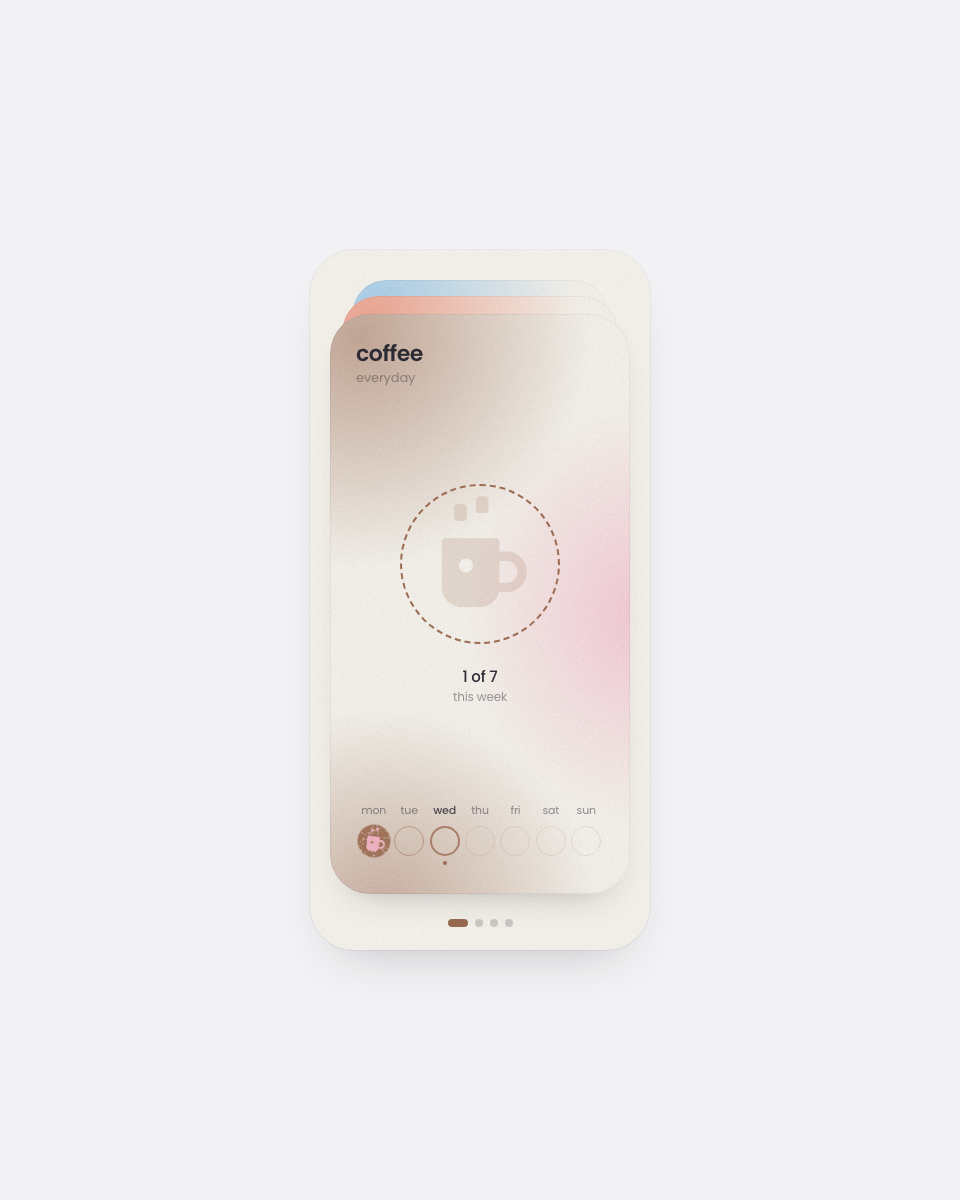
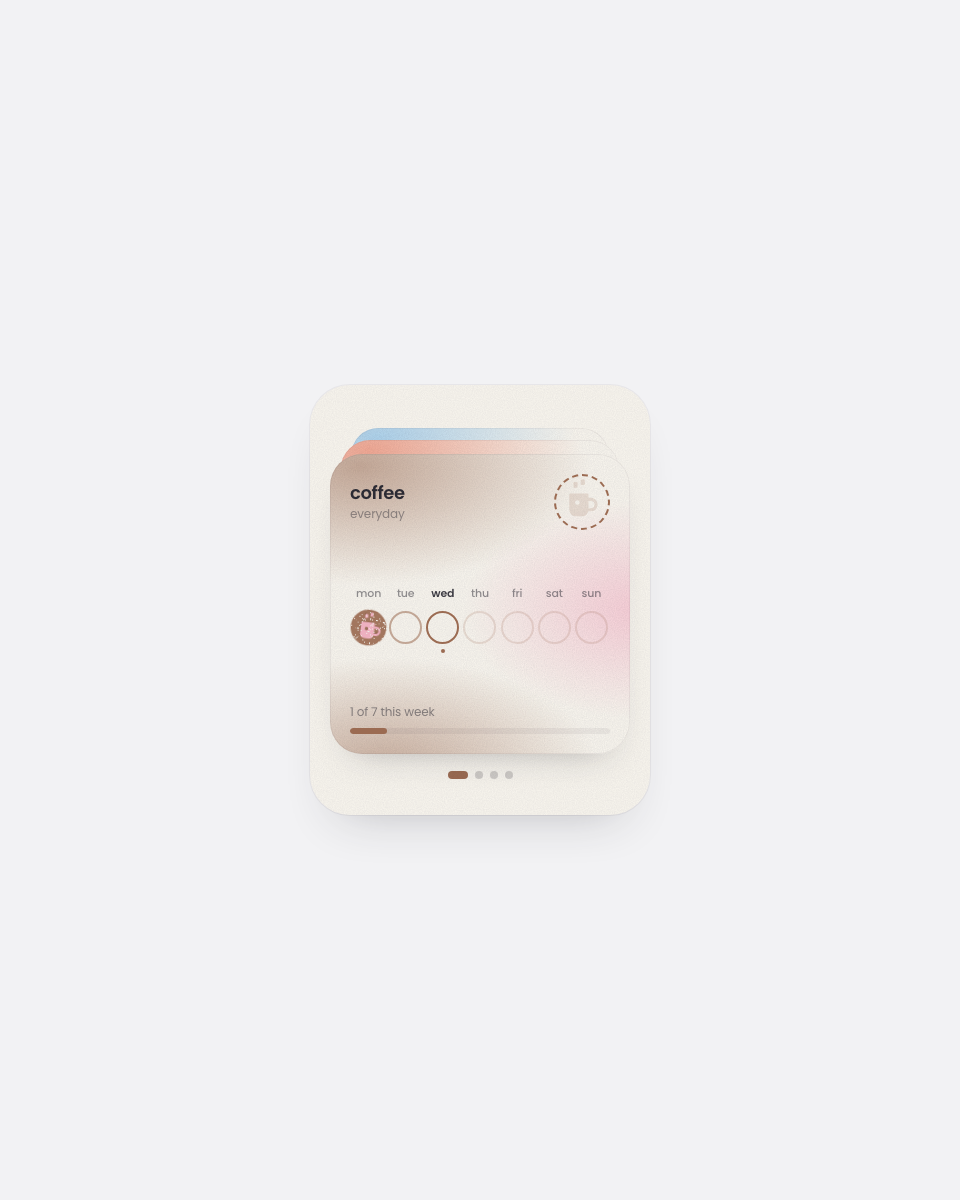
fix: Stamp Tracker — smaller cards with the week row as the hero

Changed region(s): [[0.3438, 0.2158, 0.625, 0.7708], [0.5625, 0.4933, 0.5938, 0.5242]]

diff --git a/components/data-visualization/stamp-tracker/stamp-tracker.tsx b/components/data-visualization/stamp-tracker/stamp-tracker.tsx
@@ -8,12 +8,13 @@ import { type ClassValue, clsx } from "clsx";
 import { twMerge } from "tailwind-merge";
 
 // Stamp Tracker — a week of four habits, printed like a risograph zine and held as a deck
-// of big soft cards on one rounded sheet of paper. Each card glows in its habit's inks. In
-// the middle is a single round button for today: press it and a rubber stamp comes down,
-// leaving a flat disc of ink with a rounded silhouette in a second ink printed a hair out
-// of register, rough at the edge and speckled where the drum ran dry. Along the bottom of
-// the card is the week, a small stamp for each day. Swipe the card away and it tucks in
-// behind the others, whose tops peek out above it.
+// of small soft cards on one rounded sheet of paper. Each card glows in its habit's inks.
+// The week is the point: seven day-circles, mon to sun, and tapping one brings a rubber
+// stamp down on it, leaving a flat disc of ink with a rounded silhouette in a second ink
+// printed a hair out of register, rough at the edge and speckled where the drum ran dry.
+// Today also has a small stamp in the card's corner (the same state), and a slim track
+// below counts the week. Swipe the card away and it tucks in behind the others, whose tops
+// peek out above it.
 
 // Inlined so this folder is self-contained — copy it anywhere and it works.
 function cn(...inputs: ClassValue[]) {
@@ -61,18 +62,20 @@ const HABITS: readonly Habit[] = [
 /* ───────────────────────────── layout tokens ───────────────────────────── */
 
 const SURFACE_W = 340;
-const SURFACE_H = 700;
-const SURFACE_RADIUS = 44;
+const SURFACE_H = 430;
+const SURFACE_RADIUS = 40;
 
 const CARD_MARGIN = 20;
 const CARD_W = SURFACE_W - CARD_MARGIN * 2;
-const DECK_TOP = 64;
-const DECK_BOTTOM = 56;
-const CARD_RADIUS = 40;
-const CARD_PAD = 26;
+const CARD_H = 300;
+/** The deck block (peeks, card, gap, dots) is centred in the sheet. */
+const DECK_TOP = 69;
+const DECK_BOTTOM = SURFACE_H - DECK_TOP - CARD_H;
+const CARD_RADIUS = 32;
+const CARD_PAD = 20;
 /** Cards behind the front one: how far up each is shifted and how much it shrinks. */
-const PEEK_Y = [0, 18, 34, 48] as const;
-const PEEK_SCALE = [1, 0.92, 0.85, 0.78] as const;
+const PEEK_Y = [0, 14, 26, 36] as const;
+const PEEK_SCALE = [1, 0.93, 0.86, 0.79] as const;
 
 const WEEKDAYS = ["mon", "tue", "wed", "thu", "fri", "sat", "sun"] as const;
 const WEEKDAYS_LONG = ["monday", "tuesday", "wednesday", "thursday", "friday", "saturday", "sunday"] as const;
@@ -84,8 +87,8 @@ const SNAP_SPRING = { type: "spring", stiffness: 420, damping: 32 } as const;
 
 /** The two sizes a stamp button comes in: the big one for today, the little ones for the week. */
 const VARIANT = {
-  hero: { size: 160, pad: 8, head: 1.4, lift: -16, shadow: "drop-shadow(0 16px 22px rgba(0,0,0,0.14))", speck: [3, 6], reach: 12, tilt: 8 },
-  day: { size: 30, pad: 4, head: 1.55, lift: -6, shadow: "drop-shadow(0 8px 12px rgba(0,0,0,0.12))", speck: [2, 3], reach: 5, tilt: 20 },
+  hero: { size: 56, pad: 5, head: 1.45, lift: -8, shadow: "drop-shadow(0 8px 12px rgba(0,0,0,0.13))", speck: [2, 4], reach: 7, tilt: 12 },
+  day: { size: 33, pad: 4, head: 1.55, lift: -6, shadow: "drop-shadow(0 8px 12px rgba(0,0,0,0.12))", speck: [2, 3], reach: 5, tilt: 20 },
 } as const;
 
 /* ───────────────────────────── seeded hashing ───────────────────────────── */
@@ -211,7 +214,7 @@ function StampButton({ variant, habit, idx, stamped, isToday, disabled, ariaLabe
   const tilt = (hash01(`${habit.id}:${variant}:tilt:${idx}`) - 0.5) * v.tilt;
   const svgSize = v.size + v.pad;
   const offset = (v.size - svgSize) / 2;
-  const ring = disabled ? `${habit.block}26` : hero ? habit.block : isToday ? `${habit.block}CC` : `${habit.block}80`;
+  const ring = disabled ? `${habit.block}2E` : hero || isToday ? habit.block : `${habit.block}8C`;
 
   return (
     <button
@@ -240,7 +243,7 @@ function StampButton({ variant, habit, idx, stamped, isToday, disabled, ariaLabe
         aria-hidden
         className="absolute inset-0 rounded-full"
         style={{
-          border: `${hero ? 2 : isToday ? 2 : 1.5}px ${hero ? "dashed" : "solid"} ${ring}`,
+          border: `${hero ? 2 : isToday ? 2.5 : 2}px ${hero ? "dashed" : "solid"} ${ring}`,
           opacity: stamped ? 0 : 1,
           transition: `opacity ${stamped ? 120 : 200}ms ease ${stamped ? 0 : 140}ms`,
         }}
@@ -309,7 +312,7 @@ function StampButton({ variant, habit, idx, stamped, isToday, disabled, ariaLabe
                 aria-hidden
                 className="pointer-events-none absolute rounded-full"
                 initial={{ opacity: 0.9, x: 0, y: 0 }}
-                animate={{ opacity: 0, x: Math.cos(a) * (hero ? 8 : 3), y: Math.sin(a) * (hero ? 8 : 3) }}
+                animate={{ opacity: 0, x: Math.cos(a) * 3, y: Math.sin(a) * 3 }}
                 transition={{ duration: 0.5, ease: "easeOut" }}
                 style={{ width: s, height: s, left: v.size / 2 + Math.cos(a) * r - s / 2, top: v.size / 2 + Math.sin(a) * r - s / 2, background: habit.block }}
               />
@@ -405,14 +408,14 @@ function DeckCard({ habit, depth, entered, x, stamps, todayIdx, pressed, inkFilt
       </svg>
 
       <div className="relative flex h-full flex-col">
-        <div>
-          <h3 className="m-0" style={{ fontWeight: 600, fontSize: 22, lineHeight: "28px", letterSpacing: "-0.02em" }}>
-            {habit.name}
-          </h3>
-          <div style={{ fontWeight: 400, fontSize: 13, lineHeight: "20px", opacity: 0.4 }}>{habit.frequency}</div>
-        </div>
-
-        <div className="flex flex-1 flex-col items-center justify-center" style={{ gap: 22 }}>
+        {/* 1. The header: which habit, and today's stamp. Secondary. */}
+        <div className="flex items-center justify-between">
+          <div>
+            <h3 className="m-0" style={{ fontWeight: 600, fontSize: 18, lineHeight: "24px", letterSpacing: "-0.02em" }}>
+              {habit.name}
+            </h3>
+            <div style={{ fontWeight: 400, fontSize: 12, lineHeight: "18px", opacity: 0.45 }}>{habit.frequency}</div>
+          </div>
           <StampButton
             variant="hero"
             habit={habit}
@@ -424,24 +427,22 @@ function DeckCard({ habit, depth, entered, x, stamps, todayIdx, pressed, inkFilt
             reduce={reduce}
             onPress={guarded(todayIdx)}
           />
-          <div className="text-center">
-            <div style={{ fontWeight: 500, fontSize: 15, lineHeight: "22px" }}>
-              {done} of {habit.goal}
-            </div>
-            <div style={{ fontWeight: 400, fontSize: 12, lineHeight: "18px", opacity: 0.45 }}>this week</div>
-          </div>
         </div>
 
-        {/* The week: a label and a small stamp for each day. */}
-        <div style={{ paddingBottom: 12 }}>
+        {/* 2. The week. This is the point of the card, so it takes the middle and the most weight. */}
+        <div className="flex flex-1 flex-col justify-center" style={{ paddingBottom: 6 }}>
           <div className="grid" style={{ gridTemplateColumns: "repeat(7, 1fr)" }}>
             {WEEKDAYS.map((w, i) => (
-              <span key={w} className="text-center" style={{ fontWeight: i === todayIdx ? 500 : 400, fontSize: 11, lineHeight: "16px", opacity: i === todayIdx ? 0.8 : 0.5 }}>
+              <span
+                key={w}
+                className="text-center"
+                style={{ fontWeight: i === todayIdx ? 600 : 500, fontSize: 11, lineHeight: "16px", opacity: i === todayIdx ? 0.9 : 0.5 }}
+              >
                 {w}
               </span>
             ))}
           </div>
-          <div className="grid justify-items-center" style={{ marginTop: 8, gridTemplateColumns: "repeat(7, 1fr)" }}>
+          <div className="grid justify-items-center" style={{ marginTop: 10, gridTemplateColumns: "repeat(7, 1fr)" }}>
             {WEEKDAYS.map((w, i) => (
               <StampButton
                 key={w}
@@ -452,13 +453,28 @@ function DeckCard({ habit, depth, entered, x, stamps, todayIdx, pressed, inkFilt
                 isToday={i === todayIdx}
                 disabled={i > todayIdx}
                 ariaLabel={`${habit.name}, ${WEEKDAYS_LONG[i]} — ${stamps[habit.id].has(i) ? "stamped" : "not stamped"}`}
-                // Today's little circle mirrors the big one, which carries the slam.
-                slam={i === todayIdx ? 0 : slamFor(i)}
+                slam={slamFor(i)}
                 inkFilter={inkFilters.day}
                 reduce={reduce}
                 onPress={guarded(i)}
               />
             ))}
+          </div>
+        </div>
+
+        {/* 3. Progress. Tertiary. */}
+        <div>
+          <div style={{ fontWeight: 400, fontSize: 12, lineHeight: "16px", opacity: 0.5 }}>
+            {done} of {habit.goal} this week
+          </div>
+          <div className="relative overflow-hidden rounded-full" style={{ marginTop: 8, height: 6, background: "rgba(43,42,51,0.06)" }}>
+            <motion.div
+              className="absolute inset-y-0 left-0 rounded-full"
+              style={{ background: habit.block }}
+              initial={false}
+              animate={{ width: `${Math.min(1, done / habit.goal) * 100}%` }}
+              transition={{ duration: reduce ? 0.12 : 0.4, ease: "easeOut" }}
+            />
           </div>
         </div>
       </div>
@@ -697,7 +713,7 @@ export function StampTracker({ today = DEFAULT_TODAY, loop = false, onChange, cl
             <filter id={inkFilters.hero} x="-8%" y="-8%" width="116%" height="116%" colorInterpolationFilters="sRGB">
               <feTurbulence type="fractalNoise" baseFrequency="0.04" numOctaves="2" seed="21" result="warp" />
               <feDisplacementMap in="SourceGraphic" in2="warp" scale="3" xChannelSelector="R" yChannelSelector="G" result="rough" />
-              <feTurbulence type="fractalNoise" baseFrequency="1.1" numOctaves="2" seed="5" result="grain" />
+              <feTurbulence type="fractalNoise" baseFrequency="0.8" numOctaves="2" seed="5" result="grain" />
               <feColorMatrix in="grain" type="matrix" values="0 0 0 0 0  0 0 0 0 0  0 0 0 0 0  30 0 0 0 -9" result="speck" />
               <feComposite in="rough" in2="speck" operator="in" />
             </filter>
@@ -758,7 +774,7 @@ export function StampTracker({ today = DEFAULT_TODAY, loop = false, onChange, cl
             </div>
 
             {/* Which card is in front. */}
-            <div className="absolute left-0 right-0 flex items-center justify-center" style={{ bottom: 22, gap: 7, height: 10 }}>
+            <div className="absolute left-0 right-0 flex items-center justify-center" style={{ bottom: 35, gap: 7, height: 10 }}>
               {HABITS.map((h, i) => {
                 const active = i === front;
                 return (

diff --git a/src/lib/component-registry.ts b/src/lib/component-registry.ts
@@ -345,7 +345,7 @@ export const componentRegistry = {
     index: "018",
     title: "Stamp Tracker",
     description:
-      "A week of four habits as a deck of big, soft, riso-glowing cards on one rounded sheet of paper — swipe through coffee, move, water and read while the cards behind peek out above the front one. Press the round button for today and a rubber stamp slams down, leaving a flat disc with a rounded silhouette printed a hair out of register, rough-edged and speckled; the week's little circles below stamp the same way",
+      "A week of four habits as a deck of small, soft, riso-glowing cards on one rounded sheet of paper — swipe through coffee, move, water and read while the cards behind peek out above the front one. The seven day-circles are the point: tap one and a rubber stamp slams down, leaving a flat disc with a rounded silhouette printed a hair out of register, rough-edged and speckled, while today's small stamp in the corner and a slim progress track keep count",
     category: "Data Visualization",
     status: "NEW",
     statusClassName: "bg-[var(--jitter-orange)]/12 text-[var(--jitter-orange)]",

diff --git a/src/lib/component-map.tsx b/src/lib/component-map.tsx
@@ -92,7 +92,7 @@ function DoodleCalendarPreview({ loop }: { loop?: boolean }) {
 
 function StampTrackerPreview({ loop }: { loop?: boolean }) {
   // The portrait sheet scales itself down to fit; the gallery tile enlarges it a touch to read.
-  return <StampTracker loop={loop} className={loop ? "scale-[1.2]" : undefined} />;
+  return <StampTracker loop={loop} className={loop ? "scale-[1.9]" : undefined} />;
 }
 
 export const componentMap: Record<string, ComponentType<{ loop?: boolean }>> = {

diff --git a/components/data-visualization/stamp-tracker/README.md b/components/data-visualization/stamp-tracker/README.md
@@ -1,6 +1,6 @@
 # Stamp Tracker
 
-A week of four habits as a deck of big, soft, riso-glowing cards on one rounded sheet of paper — swipe through coffee, move, water and read while the cards behind peek out above the front one. Press the round button for today and a rubber stamp slams down, leaving a flat disc with a rounded silhouette printed a hair out of register, rough-edged and speckled; the week's little circles below stamp the same way
+A week of four habits as a deck of small, soft, riso-glowing cards on one rounded sheet of paper — swipe through coffee, move, water and read while the cards behind peek out above the front one. The seven day-circles are the point: tap one and a rubber stamp slams down, leaving a flat disc with a rounded silhouette printed a hair out of register, rough-edged and speckled, while today's small stamp in the corner and a slim progress track keep count
 
 ![Stamp Tracker preview](https://raw.githubusercontent.com/michellesijiama/atomicmotion-ui/main/public/previews/stamp-tracker.png)
 
